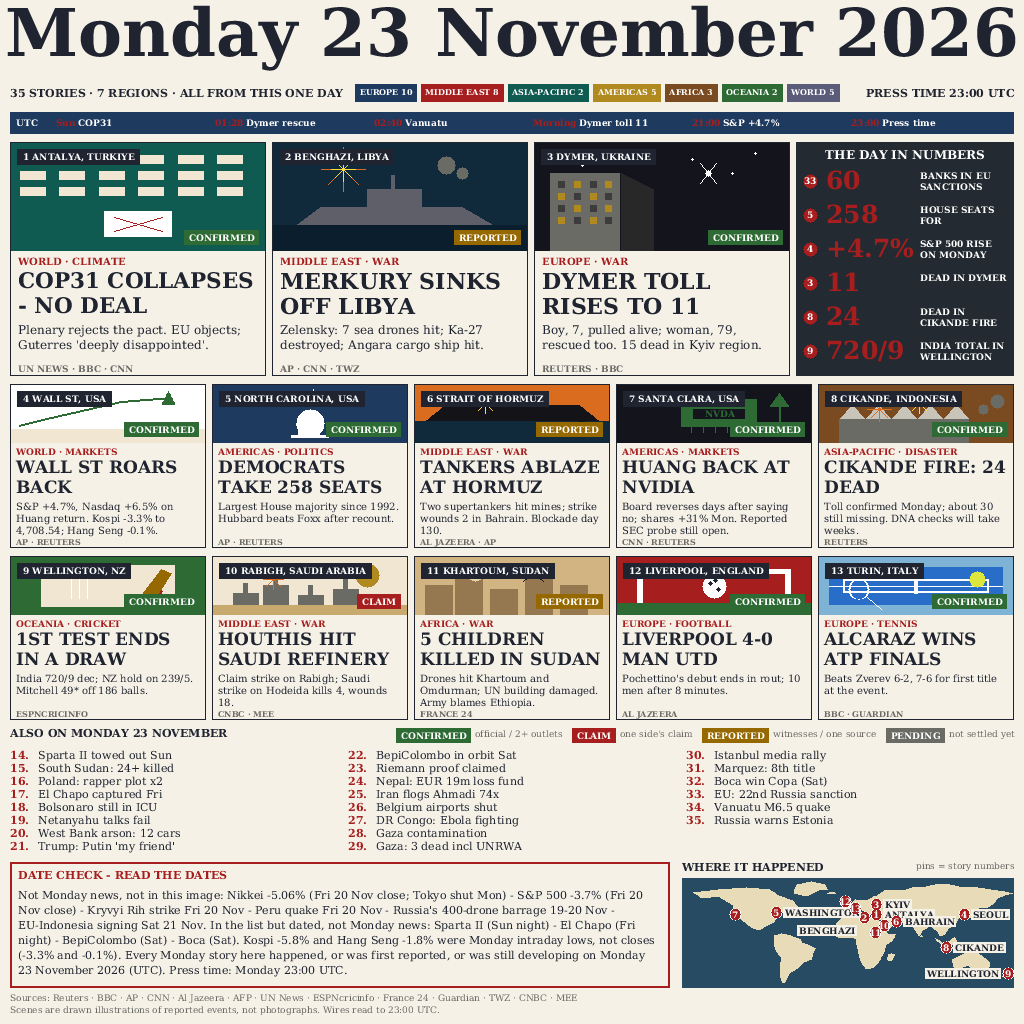
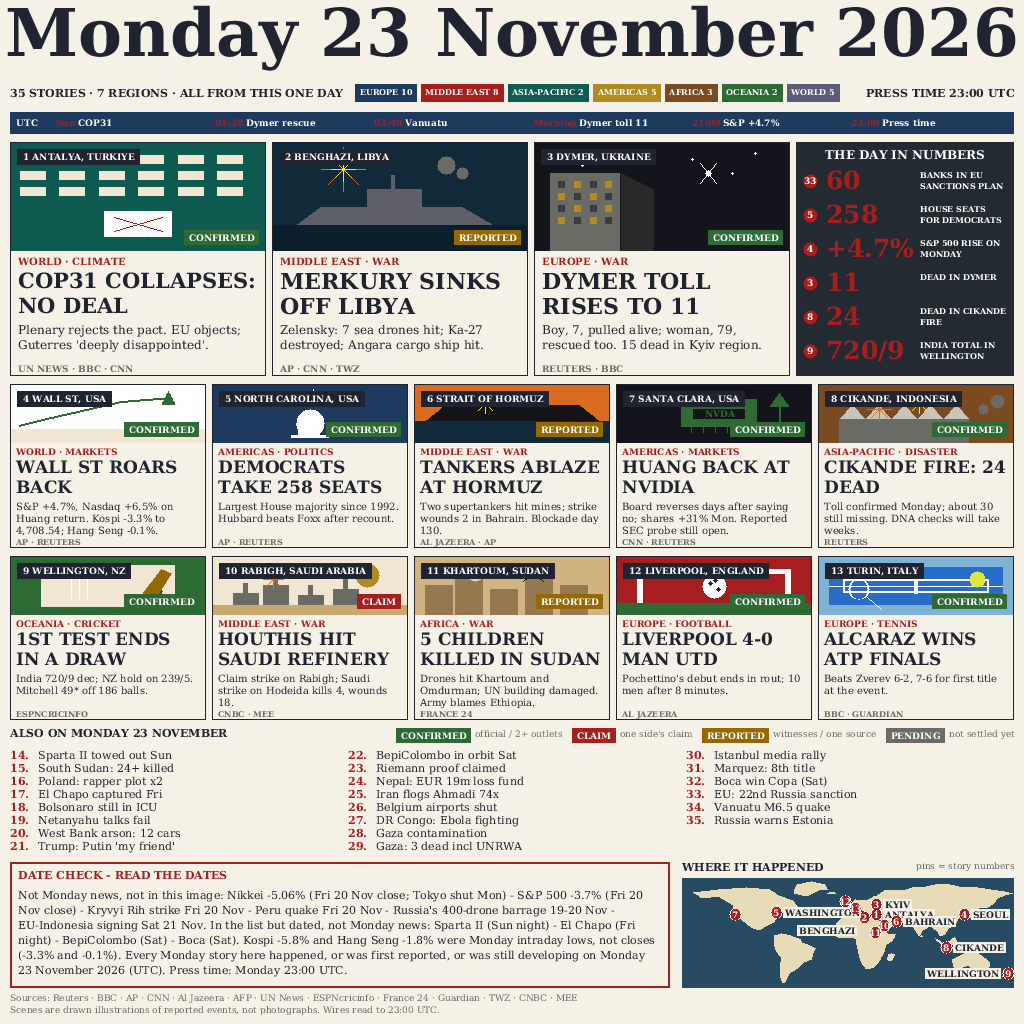
v5.1: parent audit fixes on the #2-template variant (24 Nov)
Parent audit of v5 (3dbc233) found 2 real defects:
1. Stat panel labels truncated: 'BANKS IN EU SANCTIONS' (PLAN dropped),
   'HOUSE SEATS FOR' (DEMOCRATS dropped) — wrap width 88 at 9px put the
   3rd word on a dropped line. Fix: label font 9->8px (measured: all six
   labels now fit in 2 lines at 8px/88px).
2. Lead 1 head hanging hyphen: 'COP31 COLLAPSES / - NO DEAL' -> 'COP31
   COLLAPSES: NO DEAL' (clean wrap).
No content changes; v4.1 (b643043) untouched in history.

Changed region(s): [[0.9062, 0.1562, 0.9688, 0.375], [0.0, 0.25, 0.25, 0.3125]]

diff --git a/main.py b/main.py
@@ -878,7 +878,7 @@ STATS = [
 
 LEADS = [
     {"n": 1, "badge": "CONFIRMED", "scene": "cop31",
-     "head": "COP31 COLLAPSES - NO DEAL",
+     "head": "COP31 COLLAPSES: NO DEAL",
      "deck": "Plenary rejects the pact. EU objects; Guterres 'deeply disappointed'.",
      "src": "UN NEWS \u00b7 BBC \u00b7 CNN"},
     {"n": 2, "badge": "REPORTED", "scene": "merkury",
@@ -1098,9 +1098,9 @@ def build():
         draw_text(cv, px + 14, ry + 9, str(STAT_STORIES[i]), 9, WHITE,
                   bold=True, align="c")
         draw_text(cv, px + 30, ry + 2, num, 25, RED, bold=True)
-        lines = wrap(label, pw - 130, 9, bold=True)
+        lines = wrap(label, pw - 130, 8, bold=True)
         for j, ln in enumerate(lines[:2]):
-            draw_text(cv, px + 124, ry + 4 + j * 11, ln, 9, WHITE, bold=True)
+            draw_text(cv, px + 124, ry + 4 + j * 11, ln, 8, WHITE, bold=True)
 
     # 10 small cards, 2 rows x 5, 164 tall, scene 58
     sw = 196
